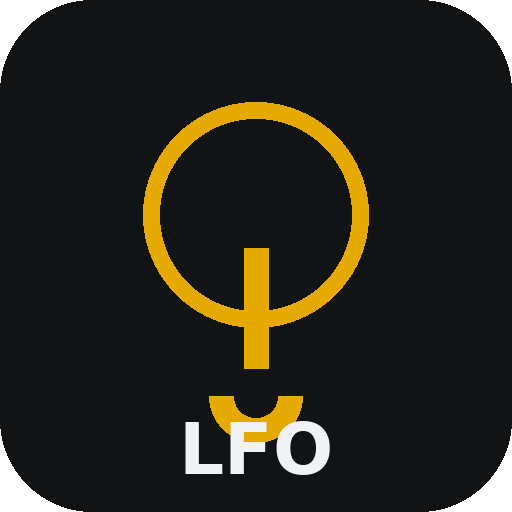
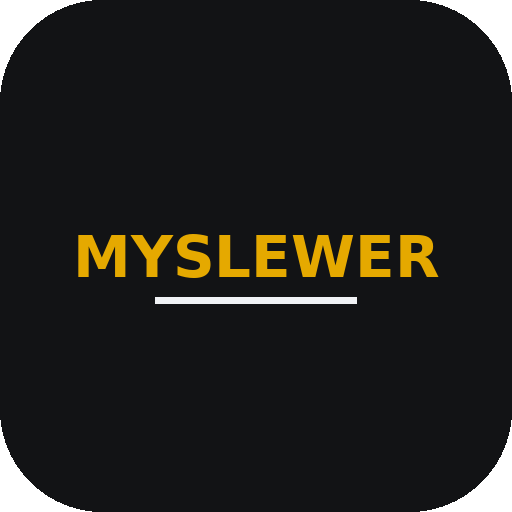
Add files via upload

diff --git a/index.html b/index.html
@@ -4,7 +4,7 @@
   <meta charset="UTF-8">
   <meta name="viewport" content="width=device-width, initial-scale=1.0, maximum-scale=1.0, user-scalable=no">
   <meta name="color-scheme" content="dark">
-  <title>Liebherr Fleet Operations Suite</title>
+  <title>Myslewer</title>
 
   <meta name="theme-color" content="#121315">
   <meta name="apple-mobile-web-app-capable" content="yes">
@@ -88,7 +88,6 @@
       body { background: #fff; color: #000; padding-bottom: 0; }
       header { background: #fff; border-bottom: 2px solid #000; position: static; }
       header h1 { color: #000; }
-      header h1 span { color: #000 !important; }
       .card { background: #fff; border: 1px solid #999; break-inside: avoid; }
       .card-title { color: #000; border-bottom: 1px solid #999; }
       input, select { background: #fff; color: #000; border: 1px solid #999; -webkit-print-color-adjust: exact; print-color-adjust: exact; }
@@ -104,7 +103,7 @@
 <body>
 
   <header>
-    <h1><span style="color:#fff;">LIEBHERR</span> FLEET OPERATIONS</h1>
+    <h1>MYSLEWER</h1>
   </header>
 
   <nav class="nav-tabs">

diff --git a/sw.js b/sw.js
@@ -1,7 +1,7 @@
 // Bump CACHE_VERSION any time you change index.html or the other cached files —
 // that's what triggers clients to fetch the new version instead of serving stale cache.
-const CACHE_VERSION = 'lfo-v1';
-const CACHE_NAME = `liebherr-fleet-ops-${CACHE_VERSION}`;
+const CACHE_VERSION = 'myslewer-v1';
+const CACHE_NAME = `app-cache-${CACHE_VERSION}`;
 
 // Paths are relative to this file's location (repo root on GitHub Pages).
 const APP_SHELL = [
@@ -27,7 +27,7 @@ self.addEventListener('activate', (event) => {
     caches.keys().then((keys) =>
       Promise.all(
         keys
-          .filter((key) => key.startsWith('liebherr-fleet-ops-') && key !== CACHE_NAME)
+          .filter((key) => key !== CACHE_NAME)
           .map((key) => caches.delete(key))
       )
     ).then(() => self.clients.claim())
